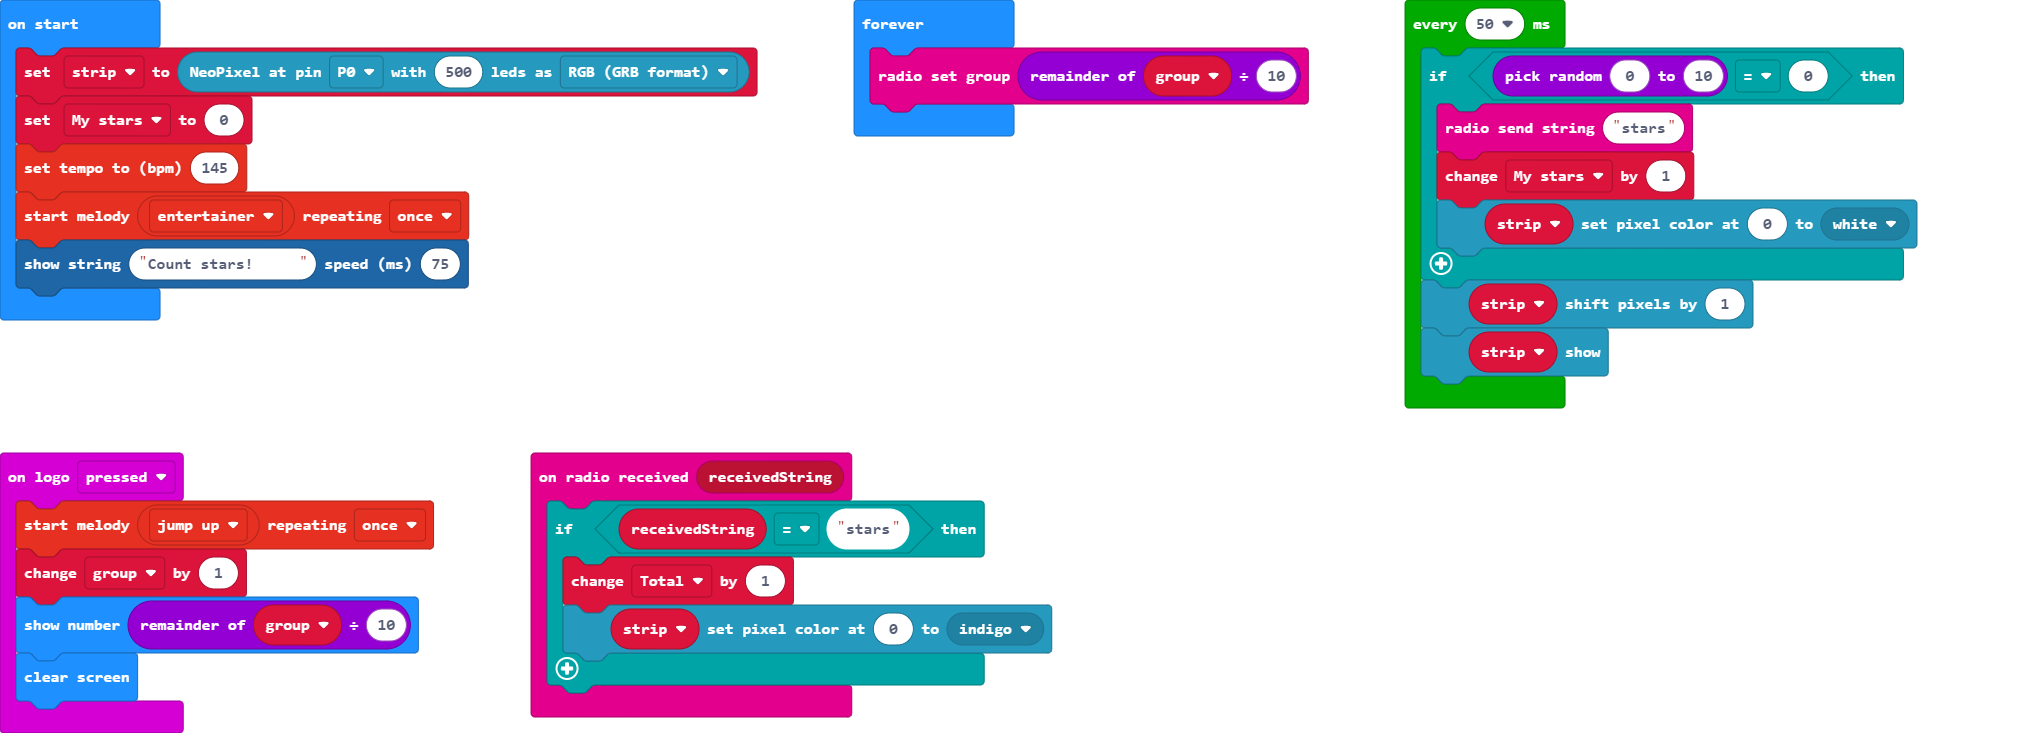
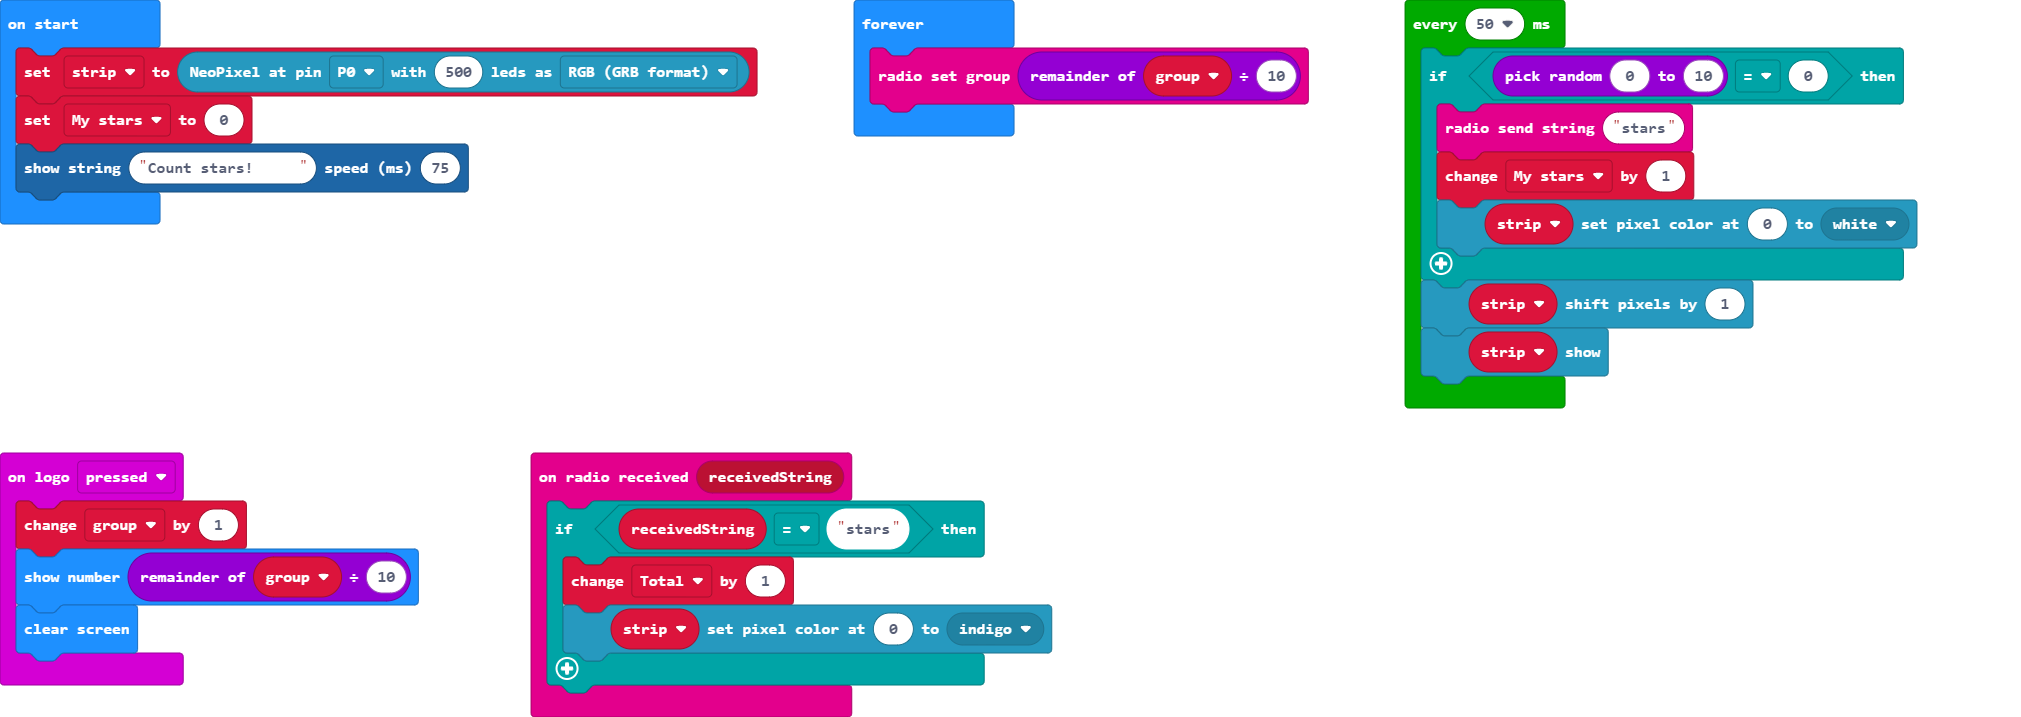
Update pxt.json, main.blocks, main.ts

diff --git a/main.ts b/main.ts
@@ -5,7 +5,6 @@ radio.onReceivedString(function (receivedString) {
     }
 })
 input.onLogoEvent(TouchButtonEvent.Pressed, function () {
-    music.startMelody(music.builtInMelody(Melodies.JumpUp), MelodyOptions.Once)
     group += 1
     basic.showNumber(group % 10)
     basic.clearScreen()
@@ -15,8 +14,6 @@ let Total = 0
 let strip: neopixel.Strip = null
 strip = neopixel.create(DigitalPin.P0, 500, NeoPixelMode.RGB)
 let My_stars = 0
-music.setTempo(145)
-music.startMelody(music.builtInMelody(Melodies.Entertainer), MelodyOptions.Once)
 proportionalFont.showString("Count stars!     ", 75)
 loops.everyInterval(50, function () {
     if (randint(0, 10) == 0) {
